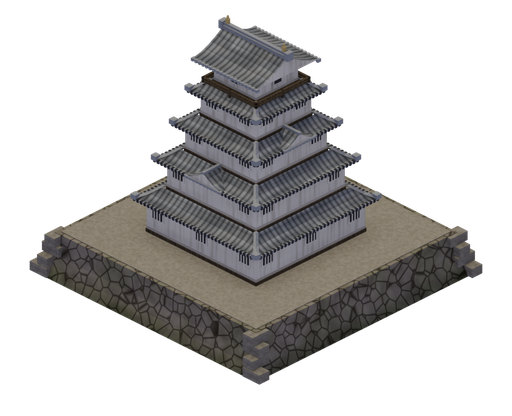
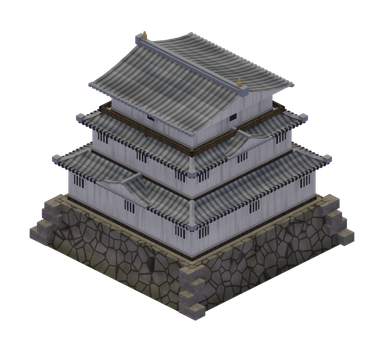
v2607182310 天守3層化+footprint 5x5縮小: 石垣天端と漆喰壁の間の犬走り平地を撤去し1層目を石垣縁ほぼ直上(隙間~0.21ユニット)から立ち上げ。5層→3層(現行意匠・逓減率0.81維持、階高は承認済み比率0.26で再調整)。canvas 384x352/anchor(192,320)、全シナリオの天守配置を+1,+1シフトで旧7x7中心と一致

Changed region(s): [[0.0312, 0.0312, 0.9688, 0.9375]]

diff --git a/packages/content/src/index.ts b/packages/content/src/index.ts
@@ -216,7 +216,7 @@ export const buildingSpecs: Record<BuildingType, BuildingSpec> = {
     type: "tenshu",
     category: "objective",
     maxHp: 9999,
-    footprint: { width: 7, height: 7 },
+    footprint: { width: 5, height: 5 },
     passable: false,
     assetId: "building.tenshu.main",
     gateState: null
@@ -338,7 +338,7 @@ export const mvpDefenseScenario: ScenarioDefinition = {
   id: "mvp-defense",
   name: "MVP防衛戦",
   initialBuildings: [
-  { type: "tenshu", position: { x: 54, y: 54 } },
+  { type: "tenshu", position: { x: 55, y: 55 } },
   { type: "honmaru", position: { x: 62, y: 58 } },
   { type: "yagura", position: { x: 50, y: 58 } },
   { type: "storehouse", position: { x: 47, y: 62 } },
@@ -494,8 +494,8 @@ export const concentricCastleScenario: ContentScenarioDefinition = {
     { type: "wall", position: { x: 68, y: 81 } },
     { type: "wall", position: { x: 69, y: 81 } },
     { type: "wall", position: { x: 70, y: 81 } },
-    // 天守(8×8) + 本丸マーカー
-    { type: "tenshu", position: { x: 57, y: 67 } },
+    // 天守(5×5) + 本丸マーカー
+    { type: "tenshu", position: { x: 58, y: 68 } },
     { type: "honmaru", position: { x: 67, y: 78 } },
 
     // === 水堀リング x=54-72, y=26-45 ===
@@ -812,7 +812,7 @@ export const linearFortressScenario: ContentScenarioDefinition = {
   description: "連郭式の二之丸を前線に東西二方向の敵と戦う標準難易度シナリオ。騎兵による南側奇襲に要注意。",
   initialBuildings: [
     // === Honmaru compound (NW) — wall ring x=15-29, y=14-29 ===
-    { type: "tenshu", position: { x: 17, y: 56 } },
+    { type: "tenshu", position: { x: 18, y: 57 } },
     { type: "honmaru", position: { x: 26, y: 66 } },
 
     // North wall
@@ -1119,7 +1119,7 @@ export const riversideDefenseScenario: ContentScenarioDefinition = {
   description: "川を天然の水堀として活用する上級シナリオ。二本の橋を押さえる橋頭堡防衛と工兵による橋破壊が鍵。",
   initialBuildings: [
     // === Castle core (west bank) ===
-    { type: "tenshu", position: { x: 30, y: 46 } },
+    { type: "tenshu", position: { x: 31, y: 47 } },
     { type: "honmaru", position: { x: 42, y: 57 } },
 
     // Watchtower guarding the NE approach

diff --git a/packages/content/src/free-play.ts b/packages/content/src/free-play.ts
@@ -42,8 +42,8 @@ export const freePlayScenario: ContentScenarioDefinition = {
     // ===================================================================
     // 天守曲輪 (内郭)
     // ===================================================================
-    // 天守 (7×7): x=52..58, y=54..60
-    { type: "tenshu", position: { x: 52, y: 54 } },
+    // 天守 (5×5): x=53..57, y=55..59
+    { type: "tenshu", position: { x: 53, y: 55 } },
     // 本丸マーカー
     { type: "honmaru", position: { x: 62, y: 59 } },
     // 兵糧蔵 (3×3) × 2: 天守の東側

diff --git a/apps/game/src/client/renderer/sceneLayer.ts b/apps/game/src/client/renderer/sceneLayer.ts
@@ -862,7 +862,7 @@ function isoSort(items: SceneItemForSort[]): void {
 
   // Enough passes for a terrace-top building to bubble back past the row of
   // cliff cells hanging off its south/east edge (up to footprint-width swaps;
-  // the widest building, the 7x7 tenshu, needs 7).
+  // the widest building, the 5x5 tenshu, needs 5).
   const PASSES = 8;
   for (let pass = 0; pass < PASSES; pass++) {
     let swapped = false;

diff --git a/packages/content/src/castle-town-gate.ts b/packages/content/src/castle-town-gate.ts
@@ -18,7 +18,7 @@ export const castleTownGateScenario: ContentScenarioDefinition = {
     // === 本城 — 壁リング x40..60, y50..64 (南門 gate_wide_3 @49..51) ===
     ...ring("wall", 40, 50, 60, 64, ["49,64", "50,64", "51,64"]),
     { type: "gate_wide_3", position: { x: 49, y: 64 } },
-    { type: "tenshu", position: { x: 42, y: 53 } },
+    { type: "tenshu", position: { x: 43, y: 54 } },
     { type: "honmaru", position: { x: 55, y: 55 } },
     { type: "storehouse", position: { x: 53, y: 58 } },
     { type: "storehouse", position: { x: 56, y: 51 } },

diff --git a/packages/content/src/cut-pass-fort.ts b/packages/content/src/cut-pass-fort.ts
@@ -35,7 +35,7 @@ export const cutPassFortScenario: ContentScenarioDefinition = {
   },
   initialBuildings: [
     // === 本曲輪 (L2) ===
-    { type: "tenshu", position: { x: 38, y: 87 } },
+    { type: "tenshu", position: { x: 39, y: 88 } },
     { type: "honmaru", position: { x: 48, y: 88 } },
     { type: "storehouse", position: { x: 48, y: 90 } },
     // 大手虎口 — 1→2 坂の出口 (43,96)(44,96) を塞ぐ幅2の門。

diff --git a/packages/content/src/five-tier-keep.ts b/packages/content/src/five-tier-keep.ts
@@ -42,7 +42,7 @@ export const fiveTierKeepScenario: ContentScenarioDefinition = {
   },
   initialBuildings: [
     // === L5 頂上 — 天守・本丸・詰の蔵・虎口門 ===
-    { type: "tenshu", position: { x: 52, y: 54 } },
+    { type: "tenshu", position: { x: 53, y: 55 } },
     { type: "honmaru", position: { x: 61, y: 56 } },
     { type: "storehouse", position: { x: 60, y: 59 } },
     { type: "gate", position: { x: 58, y: 62 } },

diff --git a/packages/content/src/mountain-castle.ts b/packages/content/src/mountain-castle.ts
@@ -55,7 +55,7 @@ export const mountainCastleScenario: ContentScenarioDefinition = {
   },
   initialBuildings: [
     // === 本丸 (L3, x51..62 y57..64) ===
-    { type: "tenshu", position: { x: 51, y: 57 } },
+    { type: "tenshu", position: { x: 52, y: 58 } },
     { type: "honmaru", position: { x: 60, y: 60 } },
     // 虎口門 — 2→3 坂の出口を塞ぐ。破らない限り本丸に入れない。
     { type: "gate", position: { x: 60, y: 64 } },

diff --git a/packages/content/src/stepped-fortress.ts b/packages/content/src/stepped-fortress.ts
@@ -34,7 +34,7 @@ export const steppedFortressScenario: ContentScenarioDefinition = {
   },
   initialBuildings: [
     // === 本丸 (L3) ===
-    { type: "tenshu", position: { x: 25, y: 57 } },
+    { type: "tenshu", position: { x: 26, y: 58 } },
     { type: "honmaru", position: { x: 35, y: 58 } },
     { type: "storehouse", position: { x: 33, y: 62 } },
     { type: "gate_ne_sw", position: { x: 38, y: 61 } },

diff --git a/packages/content/src/water-castle.ts b/packages/content/src/water-castle.ts
@@ -23,7 +23,7 @@ export const waterCastleScenario: ContentScenarioDefinition = {
     // === 本丸 — 壁リング x34..46, y58..70 (南門 gate_wide_3 @39..41) ===
     ...ring("wall", 34, 58, 46, 70, ["39,70", "40,70", "41,70"]),
     { type: "gate_wide_3", position: { x: 39, y: 70 } },
-    { type: "tenshu", position: { x: 35, y: 59 } },
+    { type: "tenshu", position: { x: 36, y: 60 } },
     { type: "honmaru", position: { x: 44, y: 60 } },
     { type: "storehouse", position: { x: 43, y: 63 } },
     { type: "storehouse", position: { x: 35, y: 66 } },

diff --git a/assets/source/blender/scripts/render_asset_lib/buildings.py b/assets/source/blender/scripts/render_asset_lib/buildings.py
@@ -704,13 +704,14 @@ def build_tenshu_graybox(scene: bpy.types.Scene) -> None:
 
 
 # ---------------------------------------------------------------------------
-# Production tenshu (five-tier keep on an ishigaki mound, 7x7 lot)
+# Production tenshu (three-tier keep on an ishigaki mound, 5x5 lot)
 # ---------------------------------------------------------------------------
 
-# Selection-gate variants (orchestrator picks the default):
-#   A: five roofs, strong tier reduction — grounded borogata silhouette
-#   B: five roofs, gentle reduction — slimmer soto-gata column
-#   C: four roofs with oversized chidori-hafu
+# Variants keep the same design language (white plaster, kawara skirt roofs,
+# chidori-hafu, kato-mado, shachi) — only proportions differ:
+#   A (production): three roofs, strong tier reduction — grounded borogata
+#   B: three roofs, gentle reduction — slimmer column
+#   C: three roofs with oversized chidori-hafu
 TENSHU_DEFAULT_VARIANT = "A"
 
 # Mound height = exactly ONE terrain elevation step (elevation/tiles.py LEVEL,
@@ -720,31 +721,40 @@ TENSHU_DEFAULT_VARIANT = "A"
 import math as _math
 TENSHU_ISHIGAKI_TOP = 5.0 * _math.sqrt(6.0) / 12.0  # == elevation.tiles.LEVEL
 TENSHU_ISHIGAKI_BATTER = 0.30  # top inset fraction of mound height (terrain sori)
-TENSHU_MOUND_BASE_HALF = 3.45  # mound base fills the 7x7 lot minus a hair
+TENSHU_MOUND_BASE_HALF = 2.45  # mound base fills the 5x5 lot minus a hair
 
 # Global keep scale (selection gate 2026-07-18: 0.60 vs 0.75 of the PR#62
 # volume; heights AND widths shrink together so the silhouette keeps its
 # proportions while harmonizing with the kura/yagura neighbours).
 TENSHU_DEFAULT_SCALE = 0.75
 
+# Tier widths are chosen so the FIRST story rises almost flush with the stone
+# crest (user ruling 2026-07-18: no visible flat 犬走り between the ishigaki
+# edge and the plaster wall — a real keep fills its stone platform). With the
+# 0.75 global scale, tier-0 of A spans 5.15*0.75=3.86 map units against a
+# stone crest of ~2.14 half-width, leaving only a ~0.21-unit stone rim
+# (well under the 0.5-tile limit); the tier-0 skirt roof eaves then reach
+# back out over the stone edge. Story heights keep the approved height:width
+# ratio (~0.26) of the PR#62 design so the white plaster bands still read
+# clearly between the tiled skirt roofs, tier reduction ratio ~0.81 as before.
 TENSHU_VARIANTS = {
     "A": {
         # Wall:roof close to 1:1 (Himeji/Matsumoto reference) so the white
         # plaster band reads clearly between the tiled skirt roofs.
-        "tiers": ((4.55, 1.18), (3.70, 1.08), (2.95, 1.00), (2.30, 0.94), (1.75, 0.86)),
-        "rises": (0.34, 0.32, 0.30, 0.29),
+        "tiers": ((5.15, 1.34), (4.15, 1.16), (3.35, 1.00)),
+        "rises": (0.34, 0.31),
         "top_rise": 0.58,
-        "hafu": ((1, "S", 0.38), (2, "E", 0.42)),
+        "hafu": ((0, "S", 0.38), (1, "E", 0.42)),
     },
     "B": {
-        "tiers": ((4.25, 0.94), (3.75, 0.88), (3.25, 0.82), (2.75, 0.76), (2.25, 0.70)),
-        "rises": (0.34, 0.33, 0.32, 0.31),
+        "tiers": ((4.95, 1.10), (4.30, 1.00), (3.70, 0.92)),
+        "rises": (0.34, 0.33),
         "top_rise": 0.52,
-        "hafu": ((2, "S", 0.40),),
+        "hafu": ((1, "S", 0.40),),
     },
     "C": {
-        "tiers": ((4.60, 1.10), (3.55, 1.00), (2.65, 0.92), (1.90, 0.82)),
-        "rises": (0.40, 0.38, 0.36),
+        "tiers": ((5.20, 1.26), (4.00, 1.12), (3.00, 1.00)),
+        "rises": (0.40, 0.38),
         "top_rise": 0.66,
         "hafu": ((0, "S", 0.60), (1, "E", 0.55)),
     },
@@ -1105,16 +1115,19 @@ def _tenshu_shachi(scene: bpy.types.Scene, name: str, x: float, y: float, z: flo
 
 
 def build_tenshu(scene: bpy.types.Scene, variant: str = TENSHU_DEFAULT_VARIANT, scale: float | None = None) -> None:
-    """Production five-tier keep on a 7x7 lot. Canvas 448x400, anchor 224,368.
+    """Production three-tier keep on a 5x5 lot. Canvas 384x352, anchor 192,320.
 
     Low ishigaki mound exactly one terrain elevation step tall (the scenario
-    terrain hill supplies the height drama), then shrinking stories: dark
-    shitami-ita skirt boards + aged white plaster, koshi window rows, hipped
-    kawara skirt roofs with sumimune hips, chidori-hafu dormers, kato-mado
-    and a koran rail on the top story, gabled top roof with shachi finials.
-    `scale` shrinks the keep volume uniformly (widths and heights) while the
-    mound stays lot-sized and 1-step tall. Same shared iso camera as every
-    building, so all ridge lines land on the 2:1 tile angle by construction."""
+    terrain hill supplies the height drama); the first story rises almost
+    flush with the stone crest (no visible flat between ishigaki edge and
+    plaster wall), then shrinking stories: dark shitami-ita skirt boards +
+    aged white plaster, koshi window rows, hipped kawara skirt roofs with
+    sumimune hips, chidori-hafu dormers, kato-mado and a koran rail on the
+    top story, gabled top roof with shachi finials.
+    `scale` shrinks the keep heights/roofs uniformly (tier widths in the
+    variant spec are pre-divided by it so the footprint stays flush) while
+    the mound stays lot-sized and 1-step tall. Same shared iso camera as
+    every building, so all ridge lines land on the 2:1 tile angle."""
     spec = TENSHU_VARIANTS[variant]
     s = TENSHU_DEFAULT_SCALE if scale is None else scale
     mats = _tenshu_material_set()
@@ -1126,7 +1139,7 @@ def build_tenshu(scene: bpy.types.Scene, variant: str = TENSHU_DEFAULT_VARIANT, 
         "TenshuQuoin", (0.190, 0.172, 0.140), (0.300, 0.278, 0.235), scale=3.0)
     gold = make_material("TenshuShachi", (0.58, 0.46, 0.17, 1.0))
 
-    cx, cy = -3.5, -3.5  # lot center of the [-7,0]x[-7,0] footprint
+    cx, cy = -2.5, -2.5  # lot center of the [-5,0]x[-5,0] footprint
 
     # --- Ishigaki mound: ONE terrain step tall, concave sori batter matching
     # elevation/tiles.py (_sori_inset with ISHIGAKI_BATTER=0.30). Single mesh
@@ -1171,7 +1184,9 @@ def build_tenshu(scene: bpy.types.Scene, variant: str = TENSHU_DEFAULT_VARIANT, 
                 add_box(scene, f"Quoin{sx:+.0f}{sy:+.0f}{k}", *map_box(
                     (px - ax, py - ay, z0), (px + ax, py + ay, z1)), quoin)
 
-    # Gravel walk inset from the crest so a stone rim stays visible.
+    # Thin gravel bed under the first story. The story wall rises within
+    # ~0.14 units of the stone crest, so only a sliver of this (plus the
+    # stone rim) ever reads on screen — no walkable 犬走り flat remains.
     walk = mound_half(1.0) - 0.10
     add_box(scene, "IshigakiWalk", *map_box((cx - walk, cy - walk, height), (cx + walk, cy + walk, height + 0.018)), mats["gravel"])
 